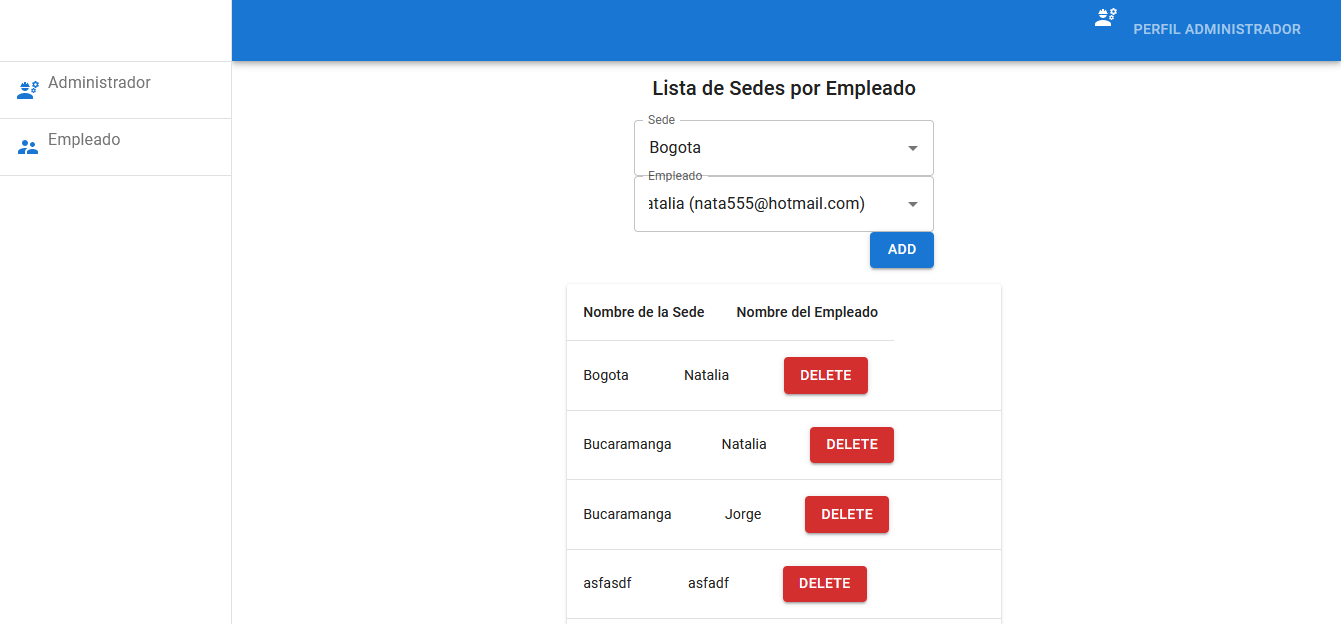
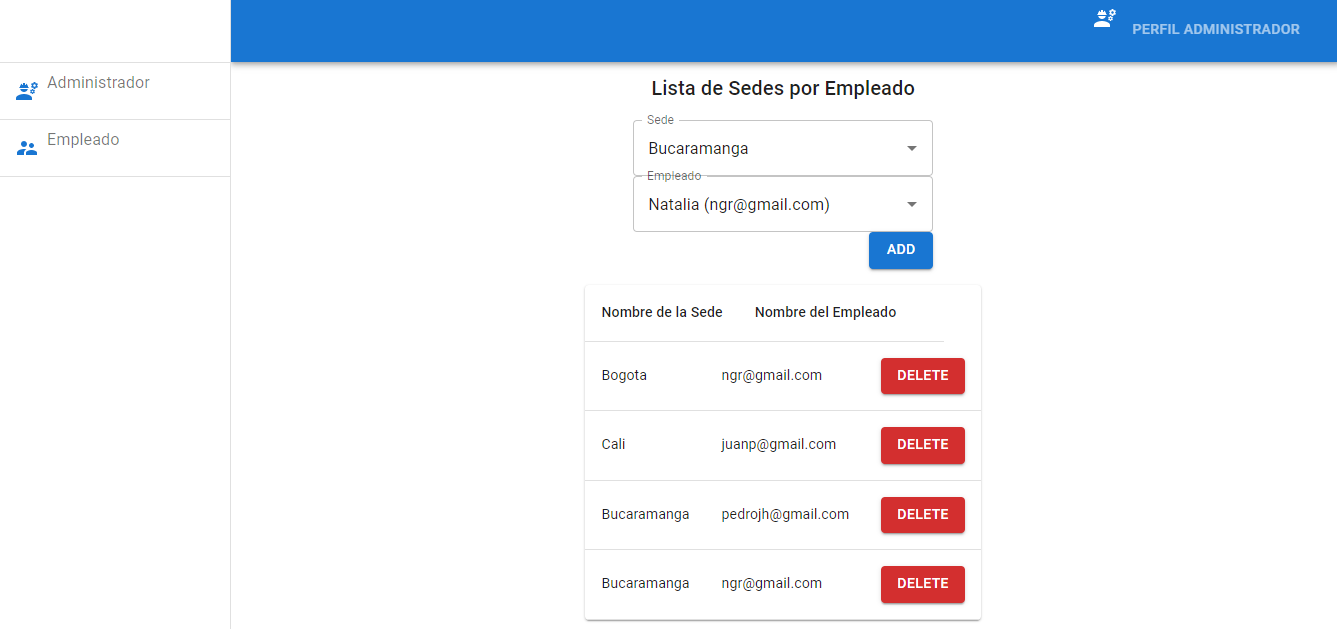
adding delete options

diff --git a/src/Pages/Context.js b/src/Pages/Context.js
@@ -81,6 +81,24 @@ export const ContextProvider = (props) => {
       });
     });
   };
+  const deleteLocation = (location) => {
+    setOfficeLocationList((prev) => {
+      return prev.filter((locationItem) => {
+        const isSameLocation = locationItem.id === location.id;
+        return !isSameLocation;
+      });
+    });
+  };
+
+  const deleteLocationPerEmployee = (locationPerEmployee) => {
+    setEmployeePerOfficeList((prev) => {
+      return prev.filter((locationPerEmployeeItem) => {
+        const isSameLocationPerEmployee =
+          locationPerEmployeeItem.email === locationPerEmployee.email;
+        return !isSameLocationPerEmployee;
+      });
+    });
+  };
 
   const addNewEmail = (newEmail) => {
     setEmailList([...emailList, { email: newEmail }]);
@@ -89,6 +107,8 @@ export const ContextProvider = (props) => {
   return (
     <Context.Provider
       value={{
+        deleteLocationPerEmployee: deleteLocationPerEmployee,
+        deleteLocation: deleteLocation,
         loggedEmployeeEmail: loggedEmployeeEmail,
         deleteEmployee: deleteEmployee,
         addNewEmail: addNewEmail,

diff --git a/src/Pages/AdminAccount.js b/src/Pages/AdminAccount.js
@@ -197,9 +197,9 @@ export default function AdminAccount() {
                       variant="contained"
                       type="submit"
                       color="error"
-                      // onClick={() => {
-                      //   ctx.deleteEmployee(employee);
-                      // }}
+                      onClick={() => {
+                        ctx.deleteLocation(office);
+                      }}
                     >
                       Delete
                     </Button>
@@ -282,9 +282,9 @@ export default function AdminAccount() {
                         variant="contained"
                         type="submit"
                         color="error"
-                        // onClick={() => {
-                        //   ctx.deleteEmployee(employee);
-                        // }}
+                        onClick={() => {
+                          ctx.deleteLocationPerEmployee(employeePerOffice);
+                        }}
                       >
                         Delete
                       </Button>
